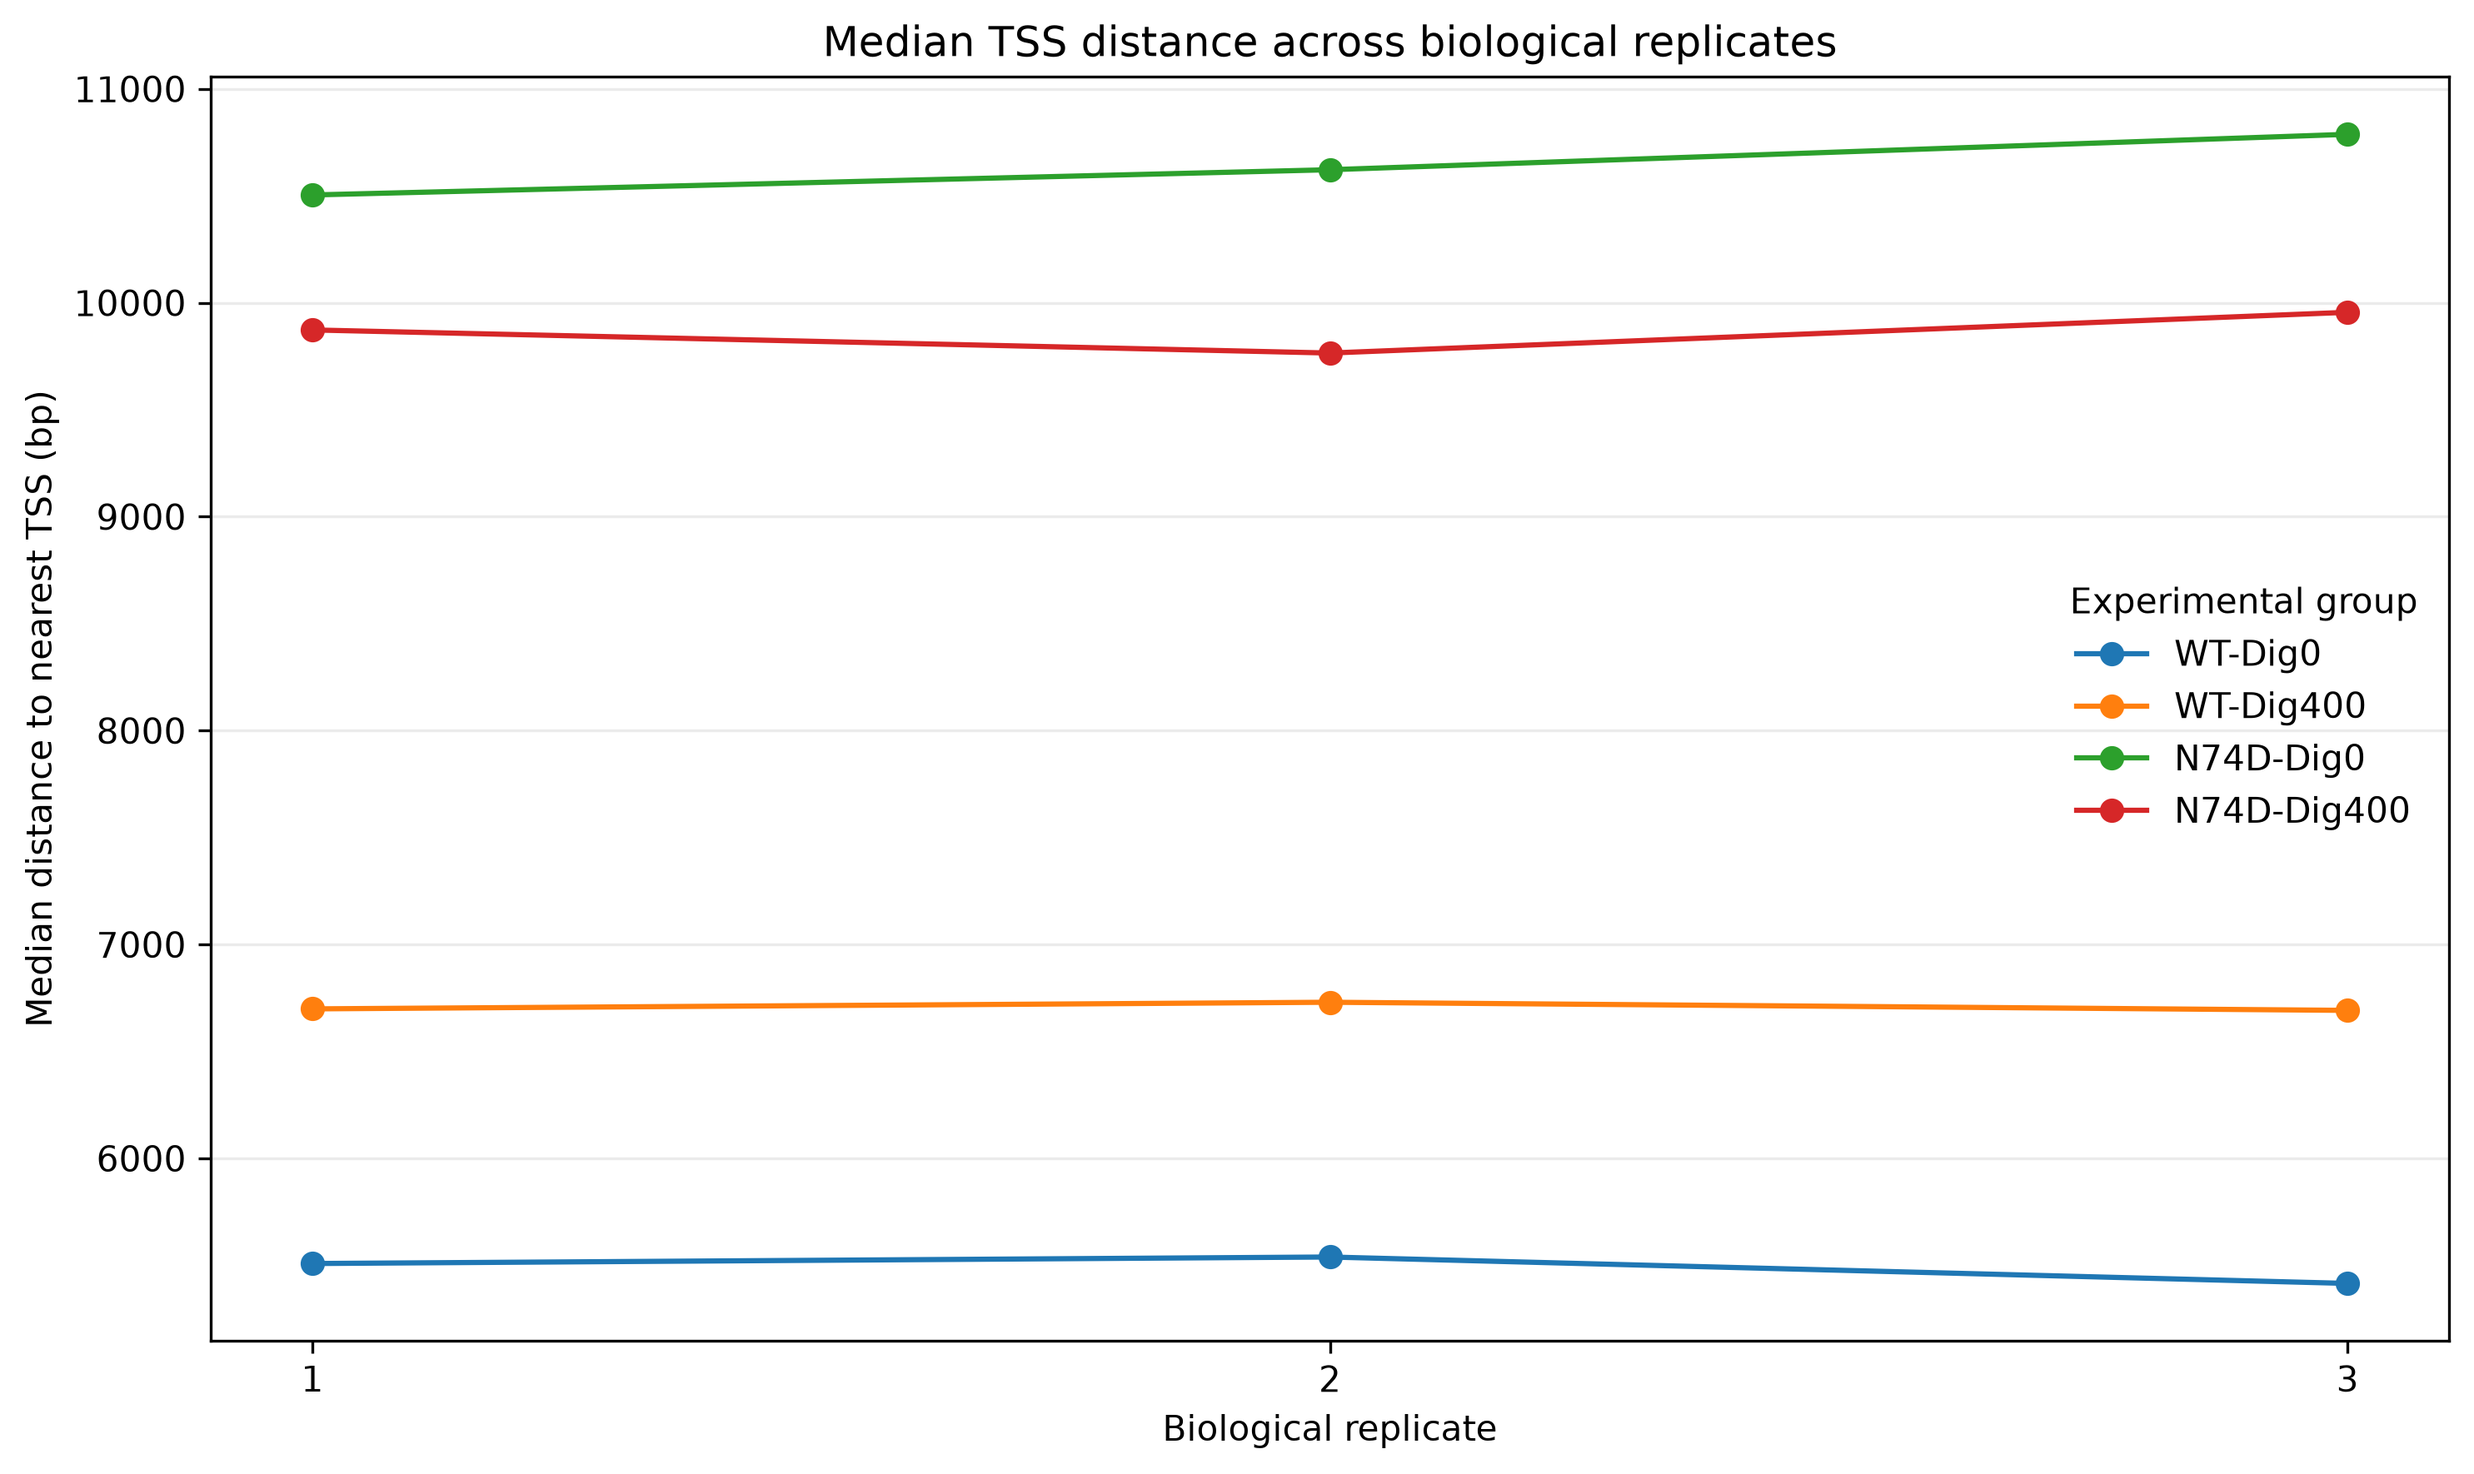
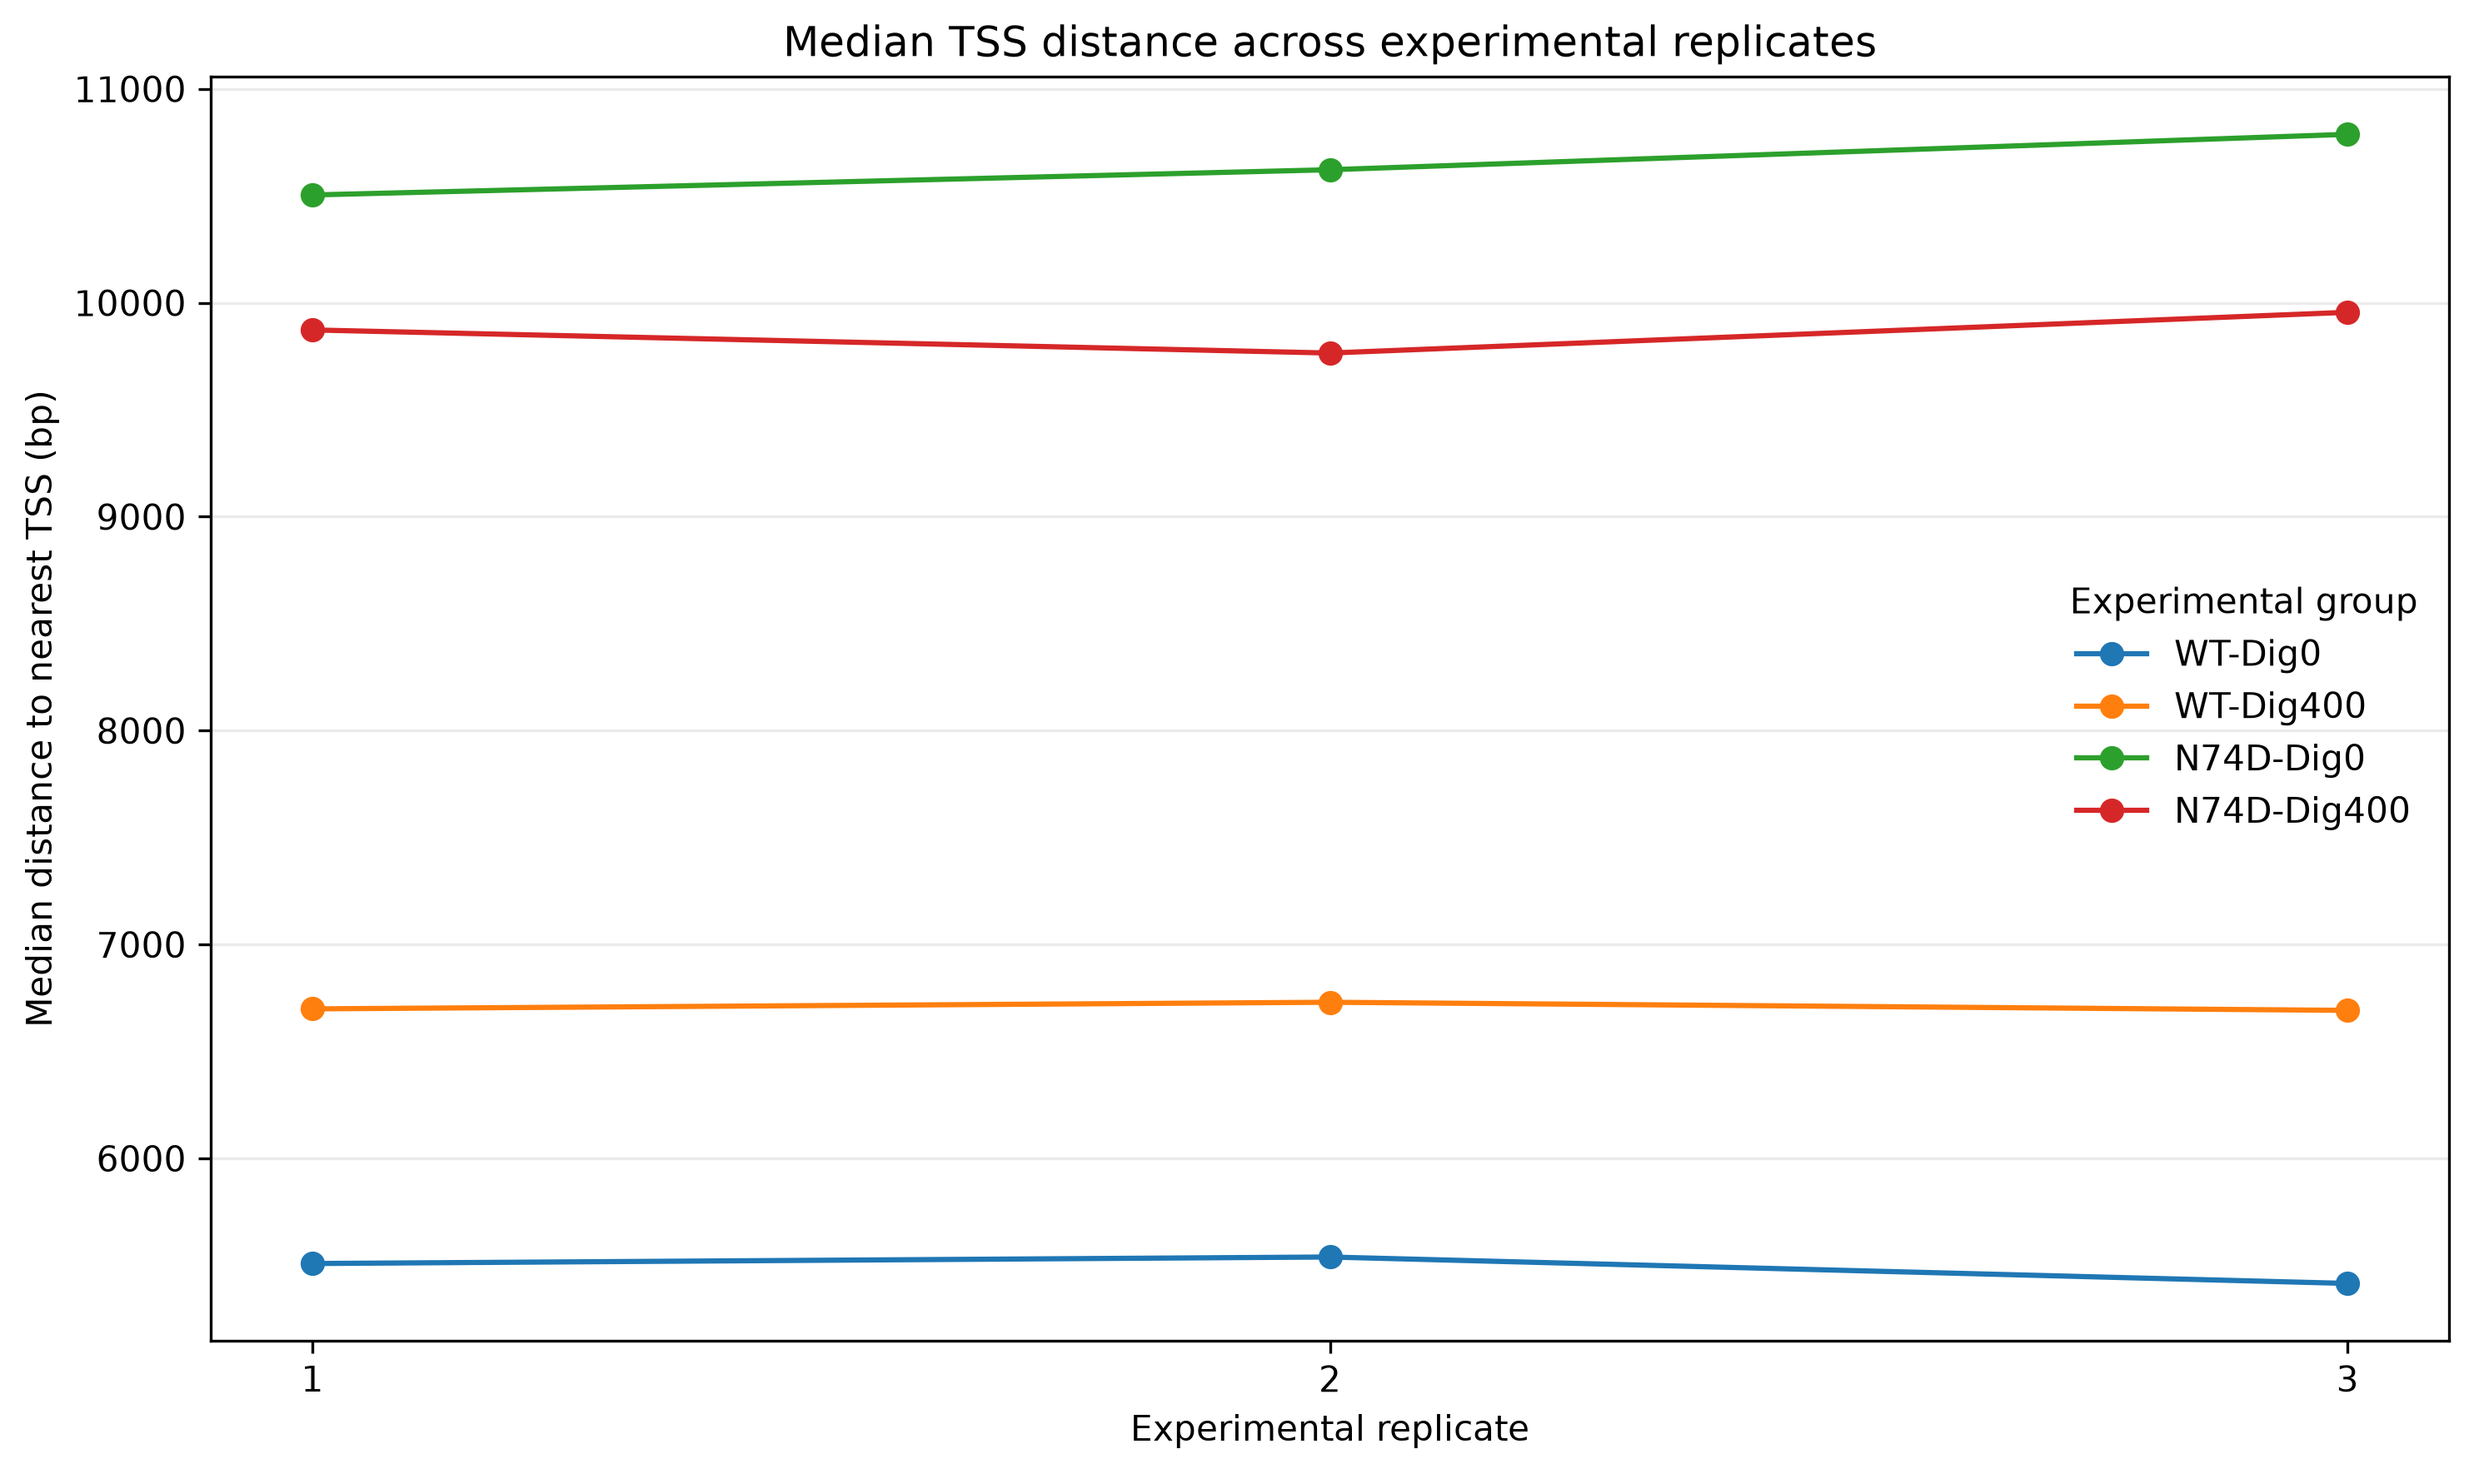
changes to graph labelling

Changed region(s): [[0.3098, 0.0, 0.7434, 0.0621], [0.4646, 0.9633, 0.6195, 0.9944]]

diff --git a/scripts/tss_processing/06_plot_tss_results.py b/scripts/tss_processing/06_plot_tss_results.py
@@ -6,7 +6,7 @@ Generate descriptive figures for the HIV-1 integration-site TSS analysis.
 Figures:
     1. Median distance to nearest TSS with Q1-Q3 range
     2. Number of integration sites within discrete TSS-distance bins
-    3. Median distance to nearest TSS across biological replicates
+    3. Median distance to nearest TSS across experimental replicates
 
 Input files:
     files/processed/tss_analysis/tss_distance_summary_by_group.csv
@@ -304,7 +304,7 @@ plt.close()
 # REPLICATE-LEVEL MEDIAN DISTANCES
 
 print("\nGenerating Figure 3...")
-print("  Showing median TSS distance across biological replicates.")
+print("  Showing median TSS distance across experimentalreplicates.")
 
 
 replicate_plot = replicate_df.copy()
@@ -341,11 +341,11 @@ for group in group_order_labels:
     )
 
 
-ax.set_xlabel("Biological replicate")
+ax.set_xlabel("Experimental replicate")
 ax.set_ylabel("Median distance to nearest TSS (bp)")
 
 ax.set_title(
-    "Median TSS distance across biological replicates"
+    "Median TSS distance across experimental replicates"
 )
 
 ax.legend(
